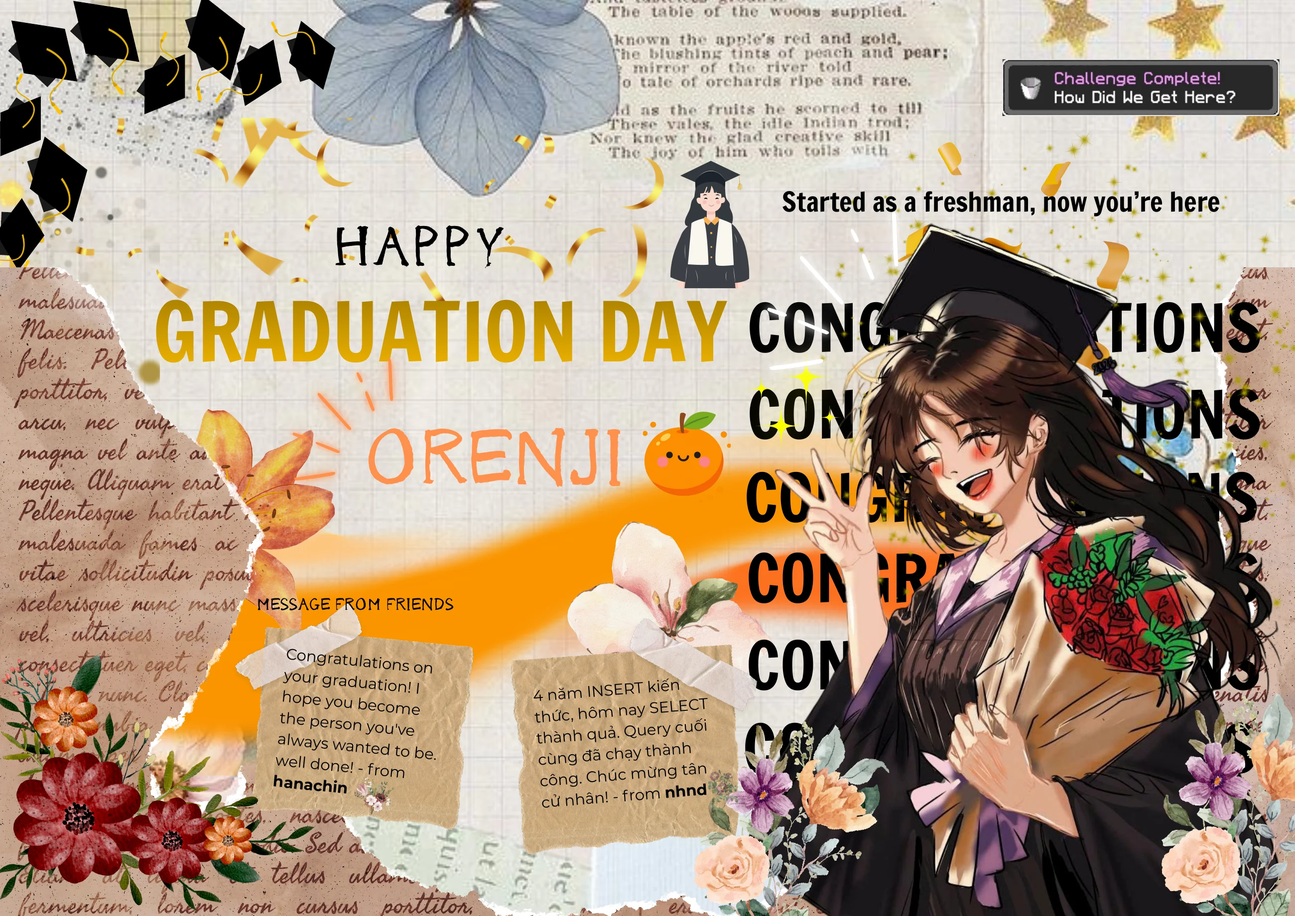
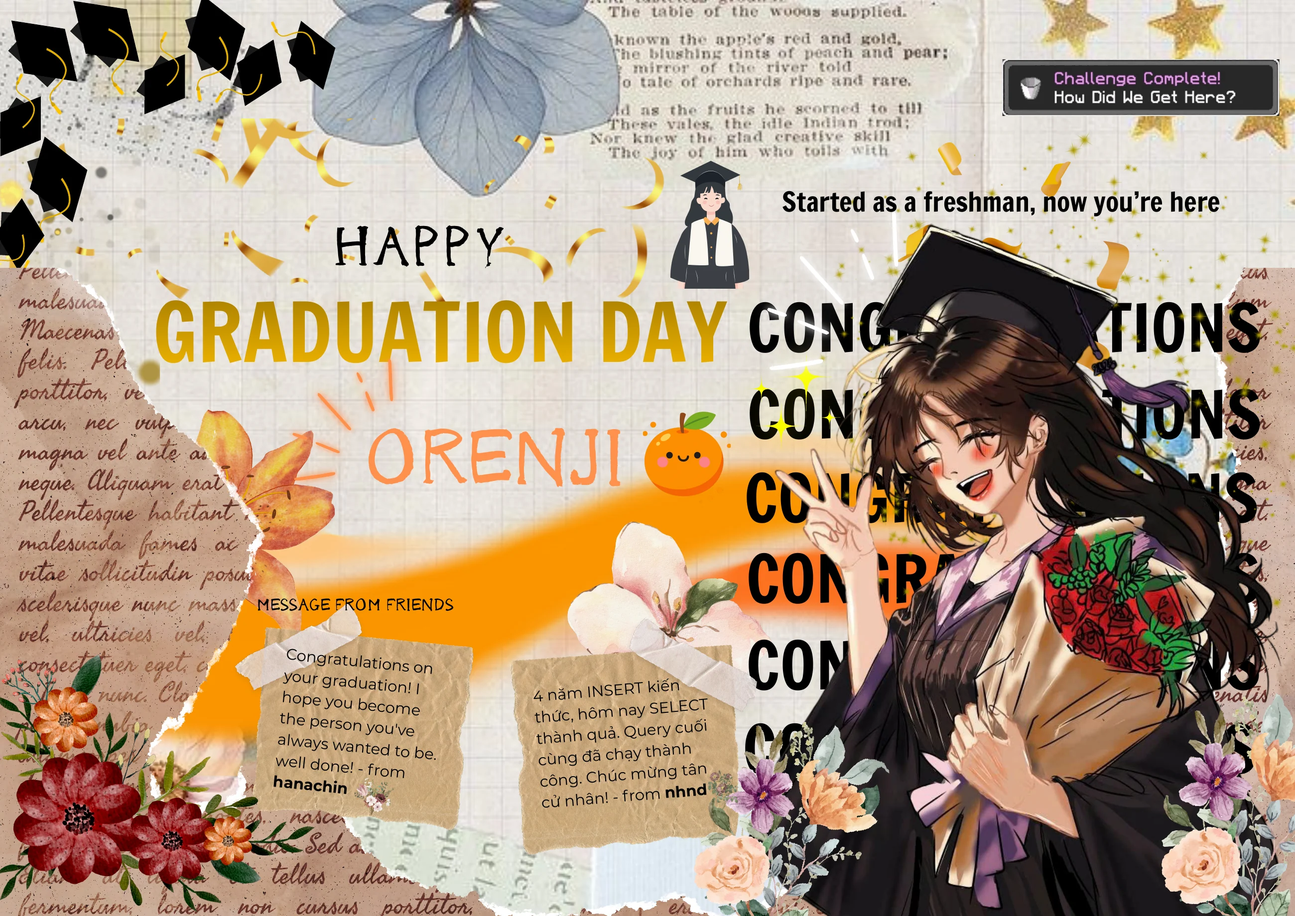
feat(site): center-hero reveal, calmer confetti, tappable friend notes
- open-letter now blooms the cutout in the screen centre before it settles onto the poster
- re-rendered the cutout so the raised hand and bouquet are complete
- softened the confetti palette and cut its density for a calmer, less gaudy feel
- friends' notes hidden under sealed letter cards that open a polished reader modal
- refreshed the Vietnamese copy (intro kicker, letter, signature)

diff --git a/index.html b/index.html
@@ -61,7 +61,7 @@
     transform-origin:50% 50%;
   }
   #girl{
-    left:62.64%; top:24.493%; width:34.89%; height:auto;
+    left:61.423%; top:24.62%; width:36.846%; height:auto;
     z-index:20; transform-origin:50% 90%;
     filter:drop-shadow(-10px 18px 22px rgba(35,20,6,.42));
   }
@@ -114,6 +114,68 @@
     text-shadow:0 1px 0 rgba(255,248,232,.5);
   }
   #signature.show{ opacity:.92; transform:none; }
+
+  /* ---------- friends' notes: sealed letter cards + reader modal ---------- */
+  .msg-letter{
+    position:absolute; z-index:22; pointer-events:auto; cursor:pointer;
+    border:0; padding:0 0 9% 0; border-radius:7px; overflow:hidden;
+    transform:rotate(var(--rot,0deg));
+    background:linear-gradient(158deg,#e9cb9e 0%, #d8ac72 52%, #c99a5e 100%);
+    box-shadow:0 14px 30px -14px rgba(60,40,14,.65), inset 0 2px 0 rgba(255,244,222,.5), inset 0 -16px 34px rgba(120,80,36,.22);
+    display:flex; flex-direction:column; align-items:center; justify-content:flex-end; gap:5%;
+    opacity:0; visibility:hidden; transition:opacity .7s ease, box-shadow .3s ease, transform .3s ease;
+  }
+  .msg-letter::before{ /* the envelope's diagonal pocket seams */
+    content:""; position:absolute; inset:0; pointer-events:none;
+    background:
+      linear-gradient(to bottom right, transparent 49.5%, rgba(120,82,40,.22) 49.7%, transparent 50%),
+      linear-gradient(to bottom left,  transparent 49.5%, rgba(120,82,40,.22) 49.7%, transparent 50%);
+  }
+  .msg-letter::after{ /* kraft paper grain */
+    content:""; position:absolute; inset:0; opacity:.5; mix-blend-mode:multiply; pointer-events:none;
+    background:repeating-linear-gradient(135deg, rgba(150,108,58,.07) 0 3px, rgba(150,108,58,0) 3px 7px);
+  }
+  .msg-letter.in{ opacity:1; visibility:visible; animation:cardGlow 2.8s ease-in-out infinite; }
+  .msg-letter.in:hover{ transform:translateY(-3%) rotate(var(--rot,0deg)) scale(1.02); animation-play-state:paused;
+    box-shadow:0 20px 42px -14px rgba(60,40,14,.72), 0 0 0 3px rgba(239,127,26,.4), inset 0 2px 0 rgba(255,244,222,.5); }
+  @keyframes cardGlow{
+    0%,100%{ box-shadow:0 14px 30px -14px rgba(60,40,14,.6), 0 0 0 0 rgba(239,127,26,0), inset 0 2px 0 rgba(255,244,222,.5); }
+    50%{ box-shadow:0 16px 32px -14px rgba(60,40,14,.6), 0 0 26px 3px rgba(239,127,26,.4), inset 0 2px 0 rgba(255,244,222,.5); }
+  }
+  .msg-letter>span{ position:relative; z-index:2; }
+  .ml-seal{ width:clamp(30px,3.5vw,44px); aspect-ratio:1; border-radius:50%; display:grid; place-items:center;
+    font-size:clamp(15px,1.9vw,22px); margin-bottom:1%;
+    background:radial-gradient(circle at 38% 32%, #ff9a3c, #e8681a 60%, #b64c0f 100%);
+    box-shadow:0 5px 11px rgba(120,50,10,.42), inset 0 -4px 8px rgba(120,40,6,.5), inset 0 3px 6px rgba(255,210,150,.6);
+  }
+  .ml-name{ font-family:"Caveat",cursive; font-weight:700; font-size:clamp(16px,2.1vw,24px); color:#5a3a16; line-height:1; }
+  .ml-open{ font-family:"Be Vietnam Pro",sans-serif; font-weight:400; font-size:clamp(9px,1.15vw,12px);
+    color:#7a5a2e; letter-spacing:.02em; display:flex; align-items:center; gap:6px; }
+  .ml-open .dot{ width:7px; height:7px; border-radius:50%; background:var(--orange);
+    box-shadow:0 0 0 0 rgba(239,127,26,.5); animation:pulse 1.8s ease-out infinite; }
+
+  #msgModal{ position:fixed; inset:0; z-index:130; display:grid; place-items:center; padding:22px;
+    background:rgba(28,16,4,.5); backdrop-filter:blur(7px); -webkit-backdrop-filter:blur(7px);
+    opacity:0; pointer-events:none; transition:opacity .45s ease; }
+  #msgModal.open{ opacity:1; pointer-events:auto; }
+  .msg-card{ position:relative; width:min(92vw,430px); max-height:86vh; overflow:auto;
+    background:linear-gradient(180deg,#fdf7ea,#f2e6cd); border-radius:9px;
+    box-shadow:0 44px 90px -34px rgba(20,10,0,.75), inset 0 0 0 1px rgba(180,150,100,.3);
+    padding:36px 30px 30px; transform:translateY(18px) scale(.95);
+    transition:transform .55s cubic-bezier(.2,.8,.2,1); }
+  #msgModal.open .msg-card{ transform:none; }
+  .msg-card::before{ content:""; position:absolute; left:50%; top:-1px; transform:translateX(-50%);
+    width:118px; height:26px; background:rgba(239,127,26,.26); border-radius:0 0 7px 7px;
+    box-shadow:0 2px 5px rgba(80,54,20,.16); }
+  .mc-label{ font-family:"Be Vietnam Pro",sans-serif; font-size:11px; letter-spacing:.16em; text-transform:uppercase;
+    color:#a98a58; margin-bottom:6px; }
+  .mc-from{ font-family:"Caveat",cursive; font-weight:700; font-size:30px; color:var(--orange); line-height:1; margin-bottom:16px; }
+  .mc-body{ font-family:"Be Vietnam Pro",sans-serif; font-weight:300; font-size:16px; line-height:1.75; color:#3f3320; white-space:pre-line; }
+  .mc-sign{ margin-top:20px; text-align:right; font-family:"Caveat",cursive; font-weight:700; font-size:23px; color:#7a4d1c; }
+  .mc-close{ position:absolute; top:10px; right:12px; width:34px; height:34px; border:0; border-radius:50%;
+    background:rgba(120,84,40,.12); color:#6c5836; font-size:17px; cursor:pointer; display:grid; place-items:center;
+    transition:background .2s ease; }
+  .mc-close:hover{ background:rgba(120,84,40,.22); }
 
   /* ---------- INTRO: the sealed letter ---------- */
   #intro{
@@ -210,6 +272,12 @@
   @keyframes floatUp{ 0%{ transform:translateY(20px) translateX(0); opacity:0 }
     10%{opacity:.8} 90%{opacity:.5} 100%{ transform:translateY(-70vh) translateX(var(--dx)); opacity:0 } }
 
+  /* on narrow screens lift the hint above the signature so they never collide */
+  @media (max-width:600px){
+    #hint{ bottom:calc(env(safe-area-inset-bottom,0) + 50px); font-size:14px; }
+    #signature{ font-size:18px; bottom:calc(env(safe-area-inset-bottom,0) + 16px); }
+  }
+
   @media (prefers-reduced-motion: reduce){
     #rays,#grain{ animation:none; }
   }
@@ -224,6 +292,20 @@
     <div id="frame">
       <img id="poster" src="assets/poster.webp" alt="Poster chúc mừng tốt nghiệp Orenji" />
       <img id="girl" src="assets/girl.webp" alt="" />
+
+      <!-- friends' notes stay hidden under these sealed letter cards until tapped -->
+      <button class="msg-letter" data-msg="hana" aria-label="Mở lời nhắn của hanachin"
+              style="left:18.5%; top:68%; width:19%; height:24%; --rot:-2.4deg;">
+        <span class="ml-seal">🌷</span>
+        <span class="ml-name">hanachin</span>
+        <span class="ml-open"><span class="dot"></span> chạm để đọc</span>
+      </button>
+      <button class="msg-letter" data-msg="nhnd" aria-label="Mở lời nhắn của nhnd"
+              style="left:38.5%; top:70.5%; width:18%; height:23%; --rot:1.8deg;">
+        <span class="ml-seal">🍊</span>
+        <span class="ml-name">nhnd</span>
+        <span class="ml-open"><span class="dot"></span> chạm để đọc</span>
+      </button>
     </div>
   </div>
 
@@ -241,14 +323,14 @@
       </svg>
     </div>
     <div id="hint">Di chuột hoặc nghiêng máy để nhìn 3D ✨</div>
-    <div id="signature">— chúc mừng cậu, tân cử nhân 🍊</div>
+    <div id="signature">— Chúc mừng cậu tốt nghiệp nha 🍊</div>
   </div>
 
   <!-- INTRO -->
   <div id="intro">
     <div class="paper-grain"></div>
     <div class="intro-stack">
-      <div class="kicker">Gửi <b>Orenji</b> 🍊</div>
+      <div class="kicker">Thân gửi <b>Orenji</b> 🍊</div>
       <div class="env" id="env">
         <div class="tape t1"></div>
         <div class="tape t2"></div>
@@ -258,7 +340,7 @@
         <div class="letter">
           <div class="l-title">Một điều nhỏ dành cho cậu</div>
           <div class="l-sub">nhân ngày cậu tốt nghiệp</div>
-          <div class="l-orange">Happy Graduation</div>
+          <div class="l-orange">Chúc mừng tốt nghiệp!</div>
         </div>
         <div class="pocket"></div>
         <div class="flap"></div>
@@ -268,11 +350,23 @@
     </div>
   </div>
 
+  <!-- message reader -->
+  <div id="msgModal" aria-hidden="true">
+    <div class="msg-card" role="dialog" aria-modal="true" aria-labelledby="mcFrom">
+      <button class="mc-close" aria-label="Đóng">✕</button>
+      <div class="mc-label">Lời nhắn gửi Orenji</div>
+      <div class="mc-from" id="mcFrom"></div>
+      <div class="mc-body" id="mcBody"></div>
+      <div class="mc-sign" id="mcSign"></div>
+    </div>
+  </div>
+
 <script>
 (function(){
   "use strict";
   const reduceMotion = window.matchMedia && matchMedia("(prefers-reduced-motion: reduce)").matches;
-  const PALETTE = ["#ef7f1a","#ff9c3d","#d7a521","#f1cf5f","#b23a34","#9a6aae","#7f9c6b","#fbf4e4","#231a10"];
+  // calmer, warmer confetti palette — fewer loud colours, tuned to the poster
+  const PALETTE = ["#ef7f1a","#ff9c3d","#e6b23c","#f1cf5f","#efe2c6","#cf8f7f"];
 
   /* ============================================================= *
    *  PARALLAX  — poster + girl tilt in opposite depths            *
@@ -281,6 +375,7 @@
   const poster = document.getElementById("poster");
   const girl   = document.getElementById("girl");
   let tx=0, ty=0, cx=0, cy=0;           // target vs current (smoothed)
+  let live=false;                        // parallax stays idle until the hero-reveal settles
   function onPointer(px, py){
     const w=innerWidth, h=innerHeight;
     tx = (px/w - .5)*2;                 // -1..1
@@ -298,6 +393,7 @@
   function enableTilt(){ window.addEventListener("deviceorientation", handleTilt, {passive:true}); }
 
   function tickParallax(){
+    if(!live) return;                    // hero-reveal owns the transforms until it hands over
     cx += (tx-cx)*0.06; cy += (ty-cy)*0.06;
     const rx = (-cy*3.4).toFixed(3), ry=(cx*4.6).toFixed(3);
     poster.style.transform =
@@ -343,7 +439,7 @@
       z:front?rnd(0.35,0.7):rnd(0.5,0.9),          // scale seed
       dz:front?rnd(0.006,0.016):rnd(0.001,0.004),  // growth toward viewer
       rot:rnd(0,Math.PI*2), vr:rnd(-0.16,0.16),
-      color:pick(PALETTE), size:rnd(7,15)*(front?1.15:0.85),
+      color:pick(PALETTE), size:rnd(6,13)*(front?1.12:0.82),
       life:0, max:front?rnd(90,150):rnd(160,300),
       tw:rnd(0,Math.PI*2)
     };
@@ -351,7 +447,8 @@
 
   const front=[], back=[];
   function seed(){
-    for(let i=0;i<46;i++) back.push(makeParticle(false,false));
+    if(back.length) return;
+    for(let i=0;i<14;i++) back.push(makeParticle(false,false));
   }
   function burst(n){ for(let i=0;i<n;i++) front.push(makeParticle(true,true)); }
 
@@ -359,7 +456,7 @@
     const s=p.size*p.z;
     const a=Math.min(1, p.life<10? p.life/10 : (p.max-p.life)/28);
     ctx.save();
-    ctx.globalAlpha=Math.max(0,a)*(p.front?0.96:0.8);
+    ctx.globalAlpha=Math.max(0,a)*(p.front?0.9:0.72);
     ctx.translate(p.x,p.y); ctx.rotate(p.rot);
     if(p.kind==="confetti"){
       ctx.fillStyle=p.color;
@@ -406,9 +503,9 @@
     ctxB.clearRect(0,0,W,H); ctxF.clearRect(0,0,W,H);
     tickParallax();
     stepPool(back, ctxB, false);
-    // steady gentle emission of front pour
+    // steady gentle emission of front pour (kept sparse for a calm, tasteful drift)
     emitAcc+=1;
-    if(emitAcc>=3 && front.length<160){ front.push(makeParticle(true,false)); emitAcc=0; }
+    if(emitAcc>=8 && front.length<60){ front.push(makeParticle(true,false)); emitAcc=0; }
     stepPool(front, ctxF, true);
     requestAnimationFrame(loop);
   }
@@ -539,15 +636,53 @@
     } else enableTilt();
 
     intro.classList.add("opening");
-    running=true; loop();
+    running=true; seed(); loop();          // particles run; parallax gated off until the reveal settles
+    setTimeout(startReveal, 950);          // once the flap has swung open
+  }
+
+  // 1) the cut-out subject blooms in the CENTRE of the screen while the poster
+  //    waits behind as a soft, dimmed, blurred backdrop
+  function startReveal(){
+    girl.style.transition="none";
+    girl.style.transformOrigin="50% 50%";
+    girl.style.transform="none";
+    const gr=girl.getBoundingClientRect();
+    const s=Math.min(innerWidth*0.82/gr.width, innerHeight*0.86/gr.height);
+    const dx=innerWidth/2  - (gr.left+gr.width/2);
+    const dy=innerHeight/2 - (gr.top +gr.height/2);
+    const centreT=`translate(${dx.toFixed(1)}px, ${dy.toFixed(1)}px) scale(${s.toFixed(3)})`;
+    // start a touch smaller for a gentle bloom
+    girl.style.transform=`translate(${dx.toFixed(1)}px, ${dy.toFixed(1)}px) scale(${(s*0.84).toFixed(3)})`;
+    poster.style.transition="none";
+    poster.style.filter="blur(15px) brightness(.66) saturate(.92)";
+    poster.style.transform="scale(1.14)";
+    void girl.offsetWidth;                 // commit, then animate
+    intro.classList.add("gone");
+    girl.style.transition="transform 1s cubic-bezier(.2,.8,.2,1)";
+    girl.style.transform=centreT;
+    setTimeout(()=> burst(reduceMotion?16:40), 300);   // one tasteful firework at the hero beat
+    setTimeout(()=>{ intro.style.display="none"; }, 1150);
+    setTimeout(settleScene, 1900);
+  }
+
+  // 2) she eases back into her place on the poster; the poster sharpens & brightens
+  function settleScene(){
+    girl.style.transition="transform 1.15s cubic-bezier(.2,.8,.2,1)";
+    girl.style.transform="none";
+    poster.style.transition="filter 1.15s ease, transform 1.15s cubic-bezier(.2,.8,.2,1)";
+    poster.style.filter="none";
+    poster.style.transform="none";
     setTimeout(()=>{
-      intro.classList.add("gone");
-      burst(reduceMotion?24:90);
-      setTimeout(()=>{ intro.style.display="none"; }, 1200);
+      // hand the stage over to the live parallax loop
+      girl.style.transition=""; poster.style.transition="";
+      girl.style.transformOrigin="50% 90%";
+      girl.style.transform=""; poster.style.transform=""; poster.style.filter="";
+      live=true;
       hint.classList.add("show");
       setTimeout(()=>hint.classList.add("fade"), 5200);
-      setTimeout(()=>signature.classList.add("show"), 1600);
-    }, 1000);
+      signature.classList.add("show");
+      document.querySelectorAll(".msg-letter").forEach((b,i)=> setTimeout(()=>b.classList.add("in"), 160*i));
+    }, 1200);
   }
   intro.addEventListener("click", openLetter);
   intro.addEventListener("touchend", e=>{ e.preventDefault(); openLetter(); }, {passive:false});
@@ -560,6 +695,32 @@
     muteBtn.style.opacity=muted?0.5:1;
     muteBtn.querySelector("svg").style.opacity=muted?0.55:1;
   });
+
+  /* ============================================================= *
+   *  FRIENDS' NOTES — tap a sealed card to read the message        *
+   * ============================================================= */
+  const MSGS={
+    hana:{ from:"hanachin",
+      body:"Congratulations on your graduation! I hope you become the person you've always wanted to be. Well done!",
+      sign:"— thương, hanachin 🌷" },
+    nhnd:{ from:"nhnd",
+      body:"4 năm INSERT kiến thức, hôm nay SELECT thành quả.\nQuery cuối cùng đã chạy thành công.\nChúc mừng tân cử nhân!",
+      sign:"— nhnd 🍊" }
+  };
+  const modal=document.getElementById("msgModal");
+  const mcFrom=document.getElementById("mcFrom"), mcBody=document.getElementById("mcBody"), mcSign=document.getElementById("mcSign");
+  function openMsg(k){
+    const m=MSGS[k]; if(!m) return;
+    mcFrom.textContent=m.from; mcBody.textContent=m.body; mcSign.textContent=m.sign;
+    modal.classList.add("open"); modal.setAttribute("aria-hidden","false");
+  }
+  function closeMsg(){ modal.classList.remove("open"); modal.setAttribute("aria-hidden","true"); }
+  document.querySelectorAll(".msg-letter").forEach(b=>{
+    b.addEventListener("click", e=>{ e.stopPropagation(); openMsg(b.dataset.msg); });
+  });
+  modal.addEventListener("click", e=>{ if(e.target===modal) closeMsg(); });
+  modal.querySelector(".mc-close").addEventListener("click", e=>{ e.stopPropagation(); closeMsg(); });
+  window.addEventListener("keydown", e=>{ if(e.key==="Escape") closeMsg(); });
 
   resize(); spawnDust();
 })();
